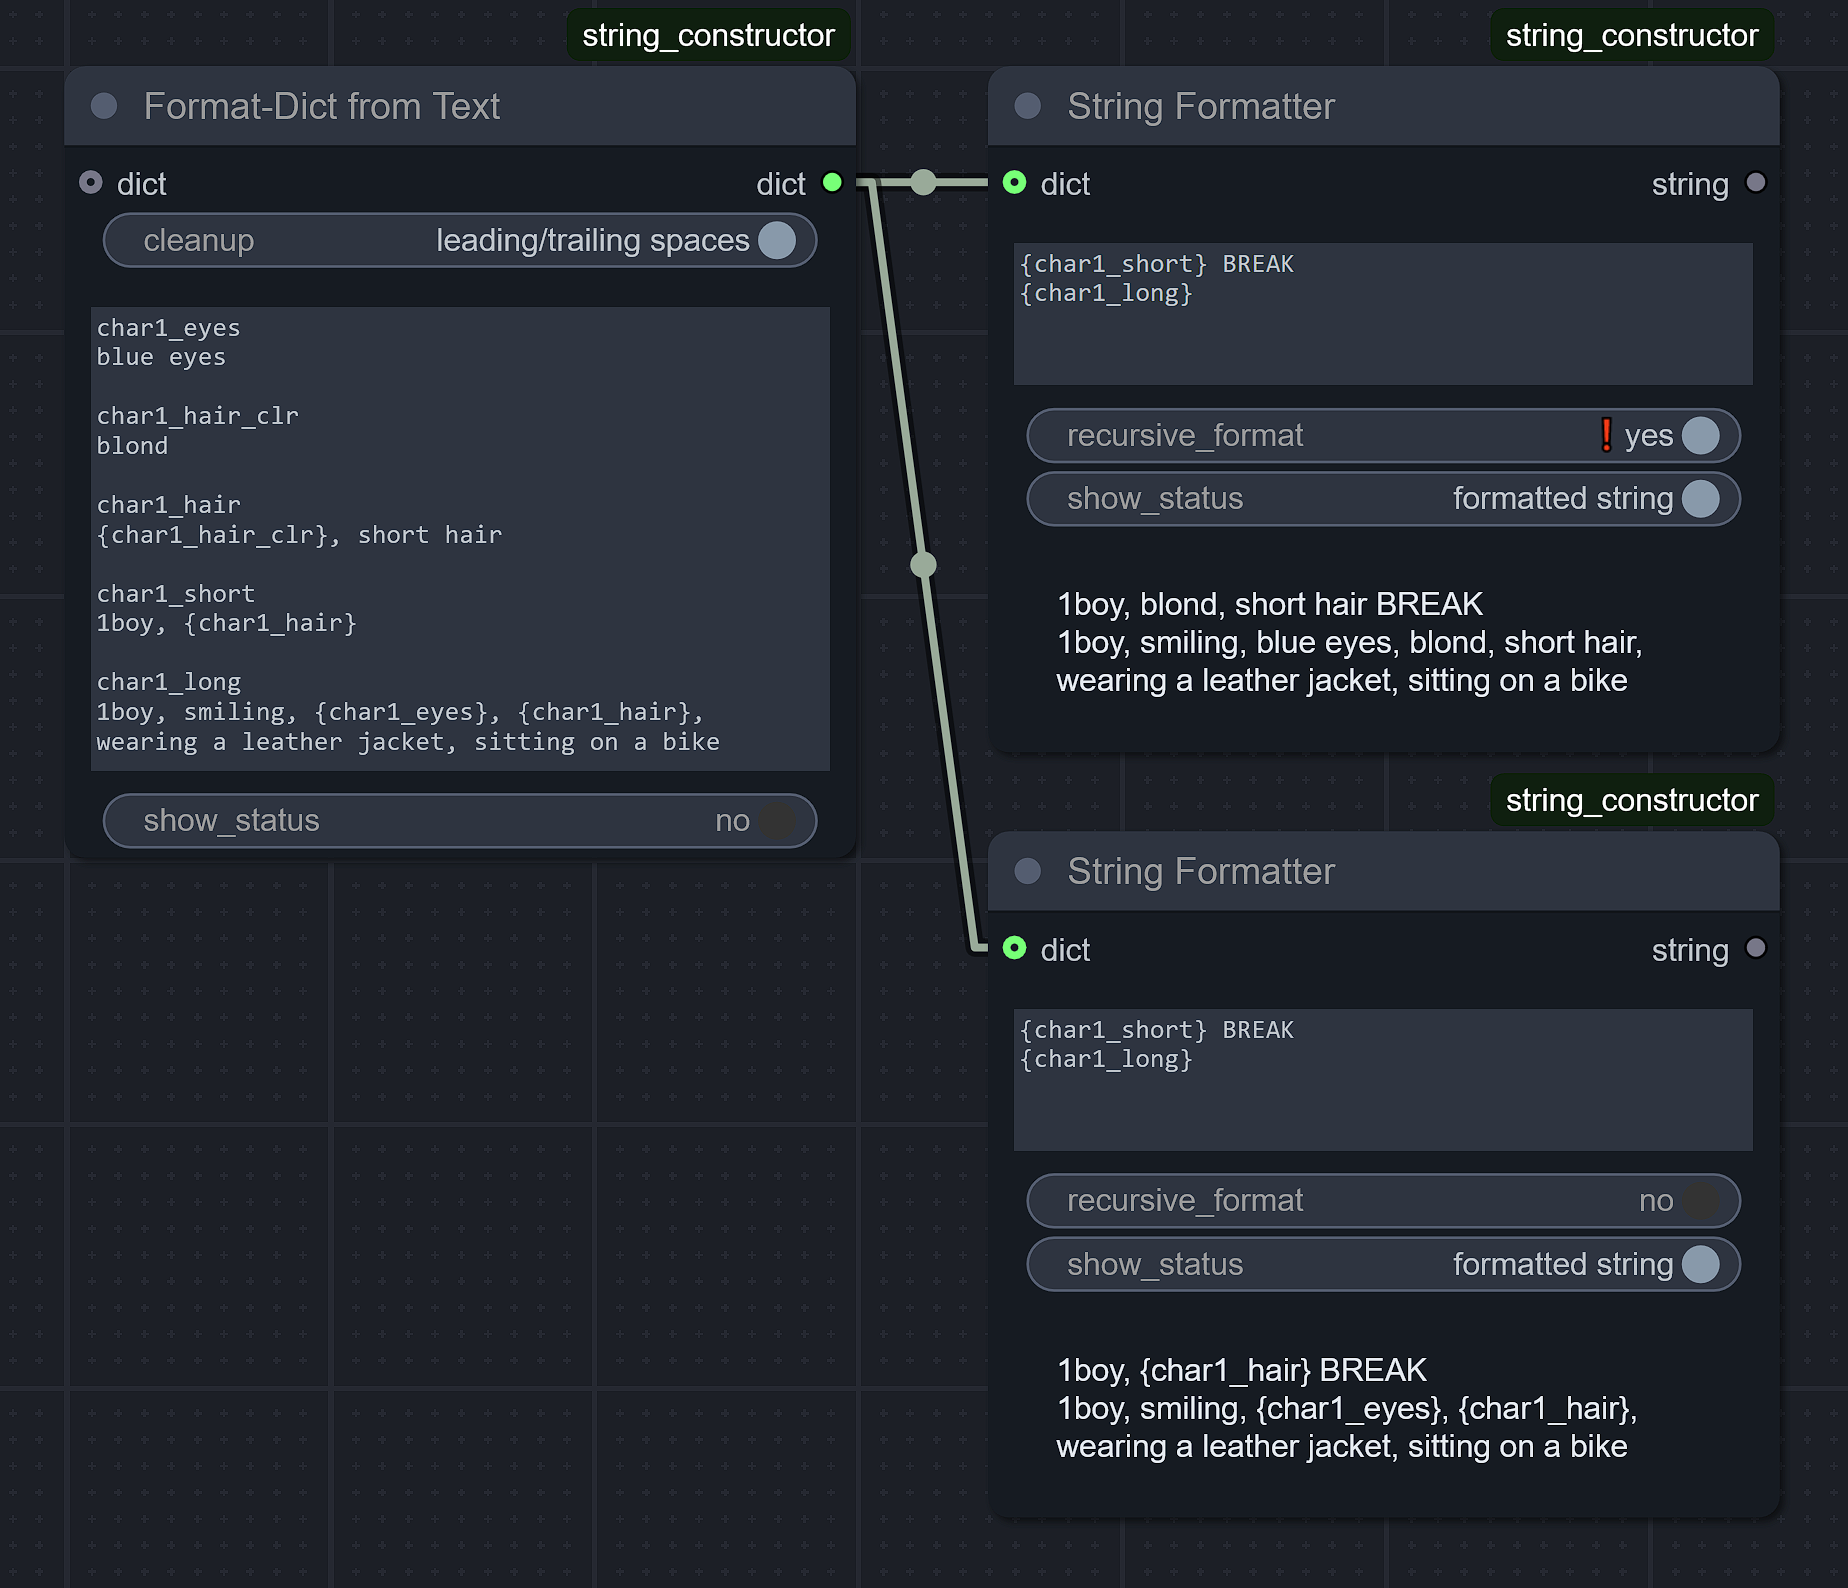
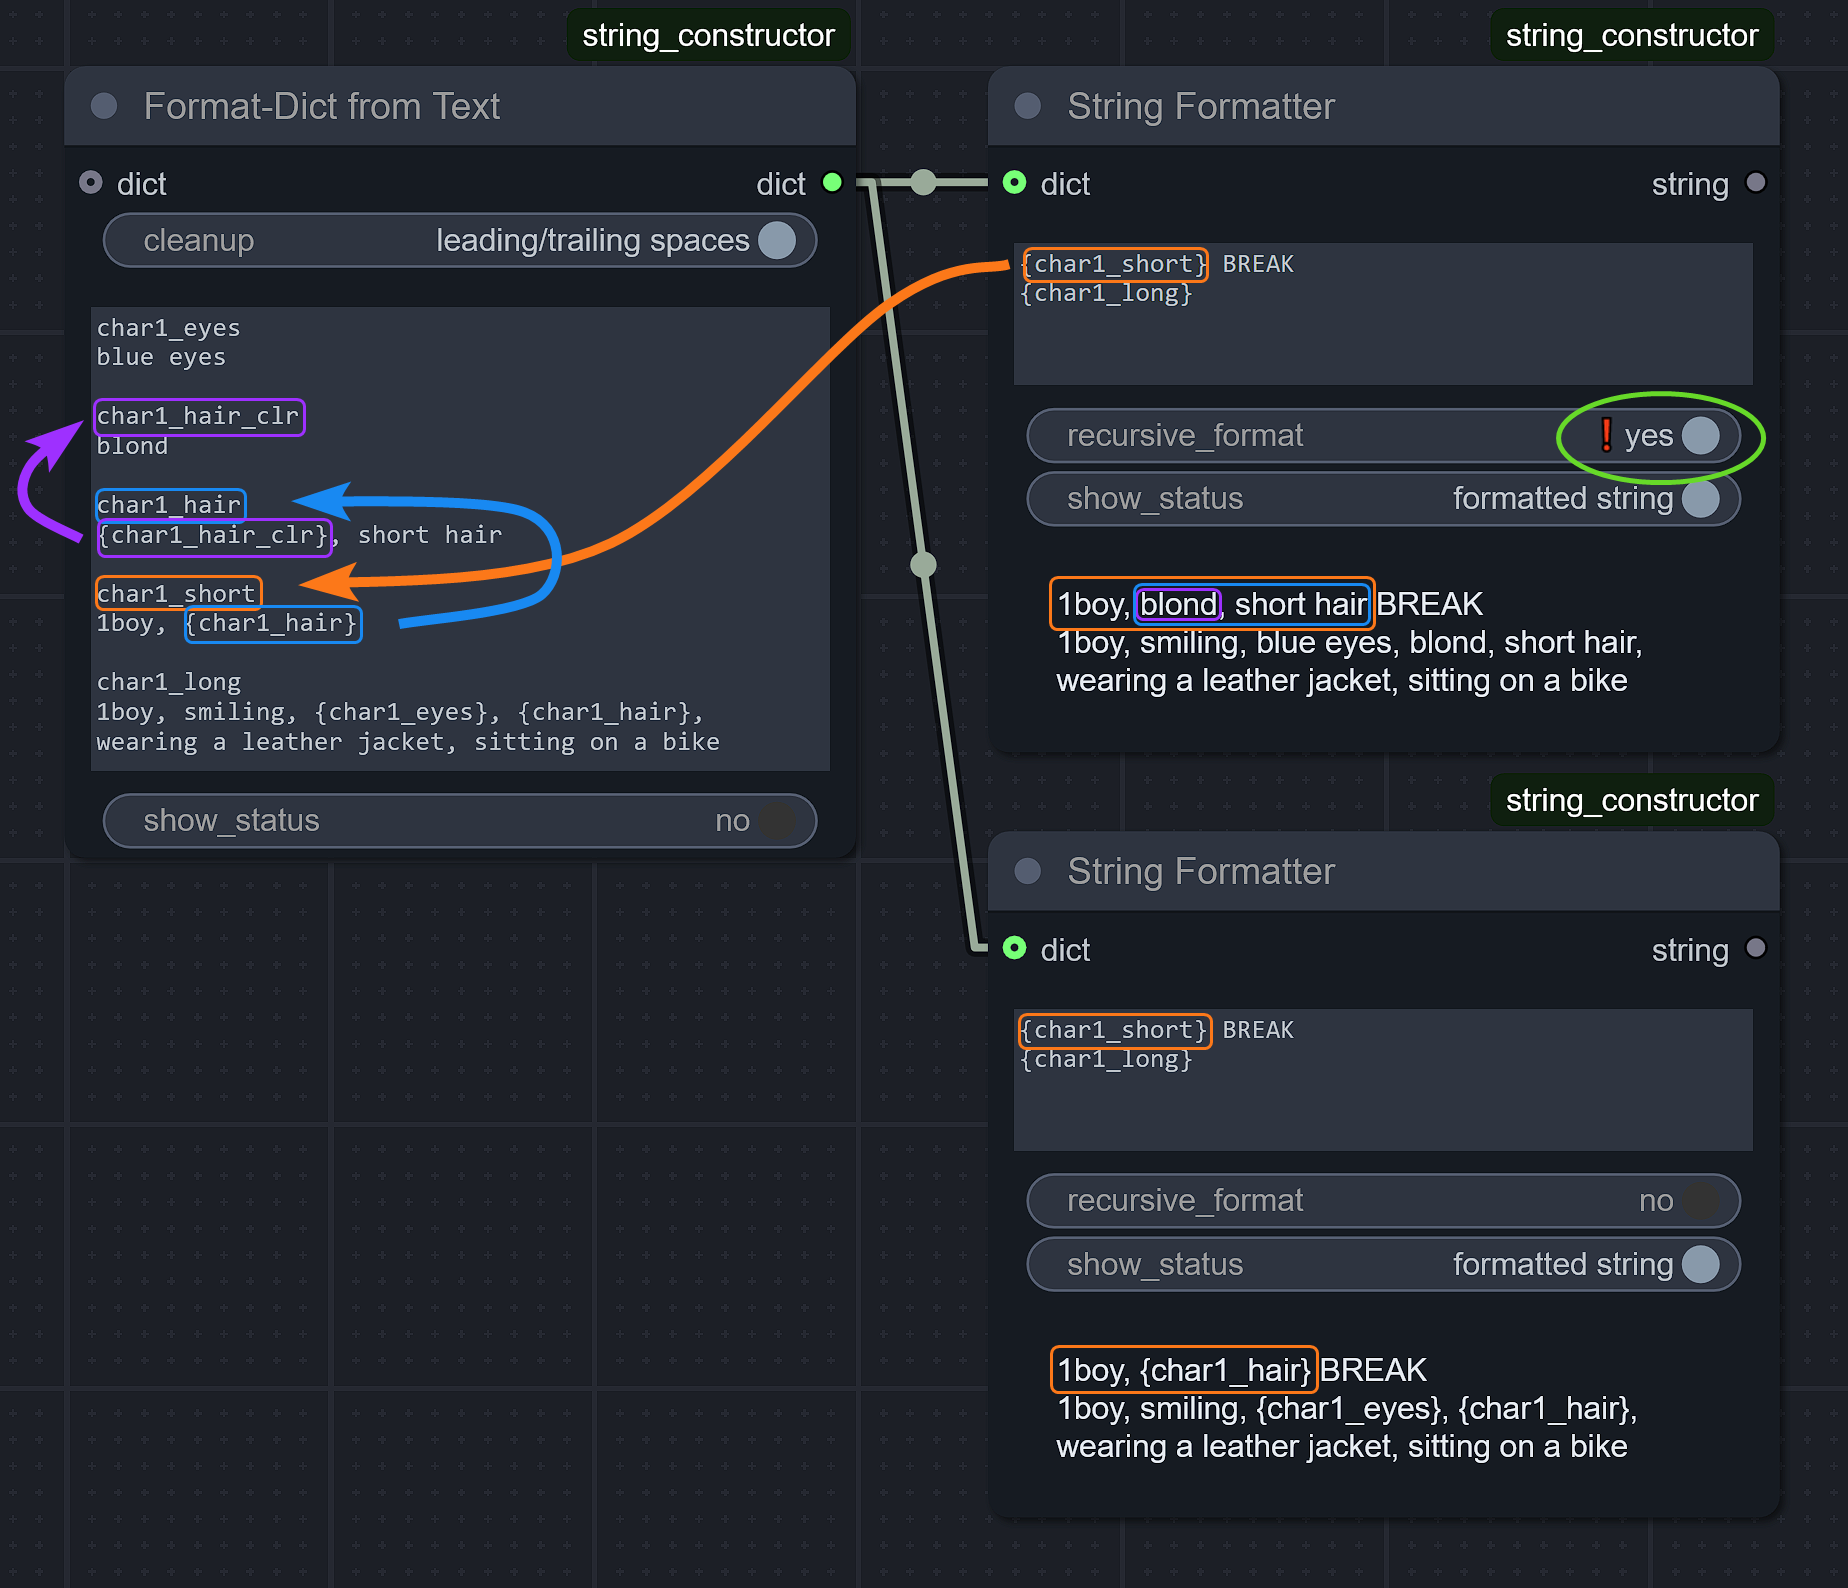
README

diff --git a/README.md b/README.md
@@ -13,7 +13,7 @@ There's already a plenty of string-formatting nodes for ComfyUI. But this node p
 - Build your dictionary of available text chunks once. Pass it further as a single line (bus/pipe design).
 - Easily reuse these sub-strings to build many variations of a prompt as needed.
 - It's especially handy for regional prompting (aka area composition).
-- [<img src="img/recursive_toggle.png" height="24" />](#recursive-formatting)
+- [❗ Recursive formatting support](#recursive-formatting-)
 - ...
 - PROFIT!
 
@@ -64,7 +64,7 @@ The way you "paste" values from the dictionary into your text template is called
 > 
 > So any formatting patterns are available (like `{float_value:.3f}`) + `Add ANY to Format-Dict` node is there for exactly that.
 
-### Recursive formatting
+### Recursive formatting <img src="img/recursive_toggle.png" height="24" />
 
 It's quite simple in principle yet the most powerful feature of the pack.
 
